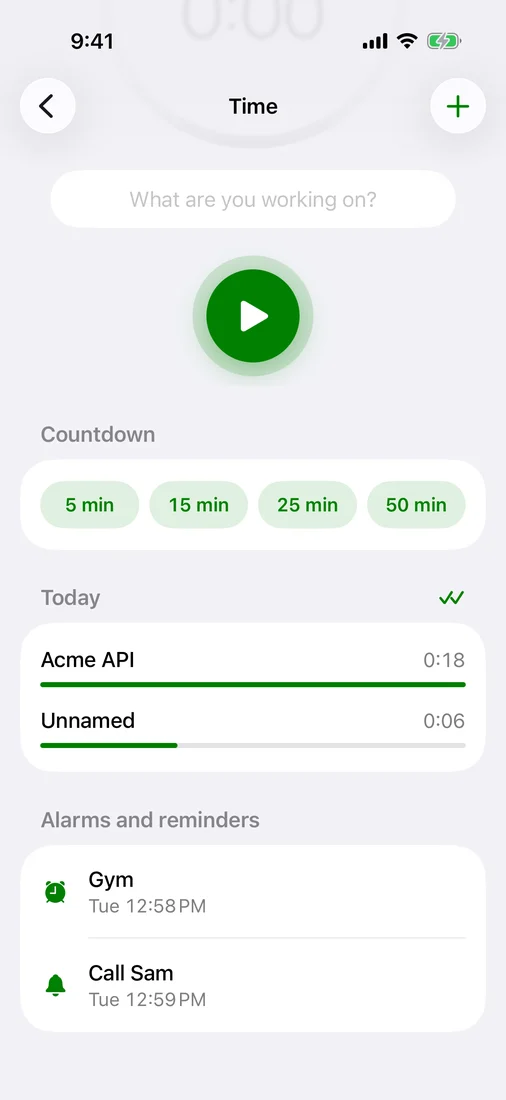
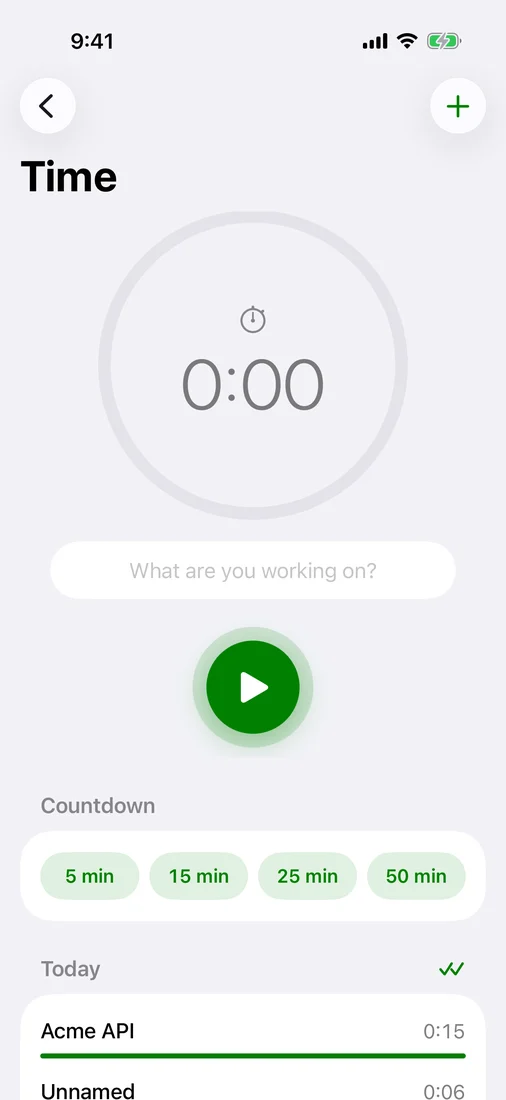
Glyph Time page: the iPhone Today shot from the top of the list
The earlier shot was scrolled to the end, so the idle clock showed faintly
under the status bar through iOS's scroll edge. This one is taken settled at
the top: the clock, the countdowns and today's totals.

Claude-Session: https://claude.ai/code/session_012sxS4fLdJXLuRbJj2wa2yC

diff --git a/docs/time/index.html b/docs/time/index.html
@@ -101,7 +101,7 @@
       <figure class="view" data-k="nudge" data-d="mac" style="margin:0"><img class="shot" src="/time/nudge.webp" width="1400" height="900" alt="The half-hour nudge: 1 h on acme-api, with Keep going and Stop" loading="lazy"></figure>
       <figure class="view" data-k="countdown" data-d="mac" style="margin:0"><img class="shot" src="/time/countdown.webp" width="1400" height="900" alt="A countdown at zero: Time is up on acme-api, counting the time over, with Keep going and Stop" loading="lazy"></figure>
       <figure class="view" data-k="settings" data-d="mac" style="margin:0"><img class="shot" src="/time/settings.webp" width="1400" height="900" alt="Glyph Time settings: nudge every 30 minutes, pause when away for 5 minutes, sessions saved to a vault folder" loading="lazy"></figure>
-      <figure class="view" data-k="iphone" data-d="iphone" style="margin:0"><img class="phone" src="/time/iphone-running.webp" width="506" height="1100" alt="Glyph Time in the Glyph app on iPhone: Acme API running at 0:11, with pause, stop and rename" loading="lazy"><img class="phone" src="/time/iphone-today.webp" width="506" height="1100" alt="Today's totals on iPhone, Acme API and an unnamed countdown, with an alarm and a reminder set" loading="lazy"></figure>
+      <figure class="view" data-k="iphone" data-d="iphone" style="margin:0"><img class="phone" src="/time/iphone-running.webp" width="506" height="1100" alt="Glyph Time in the Glyph app on iPhone: Acme API running at 0:11, with pause, stop and rename" loading="lazy"><img class="phone" src="/time/iphone-today.webp" width="506" height="1100" alt="Today's totals on iPhone, Acme API and an unnamed countdown, under the clock ready for the next session" loading="lazy"></figure>
       <figure class="view" data-k="alarms" data-d="iphone" style="margin:0"><img class="phone" src="/time/iphone-alarm.webp" width="506" height="1100" alt="A new alarm on iPhone: Gym, with its day and time" loading="lazy"><img class="phone" src="/time/iphone-reminder.webp" width="506" height="1100" alt="A new reminder on iPhone: Call Sam, with its day and time" loading="lazy"></figure>
     </div>
     <div class="seg" id="tabs" role="tablist" aria-label="Glyph Time on screen">
